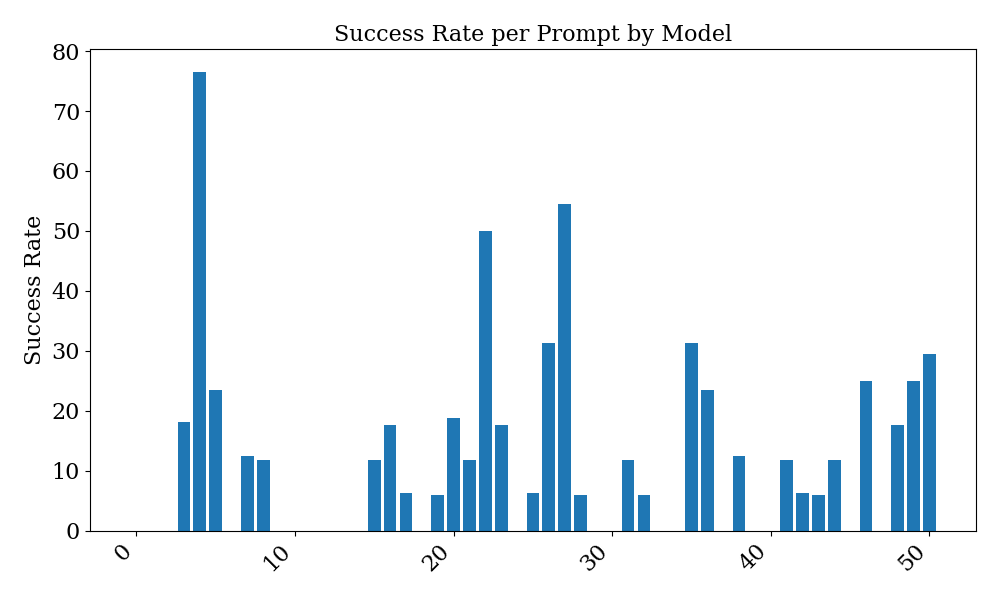
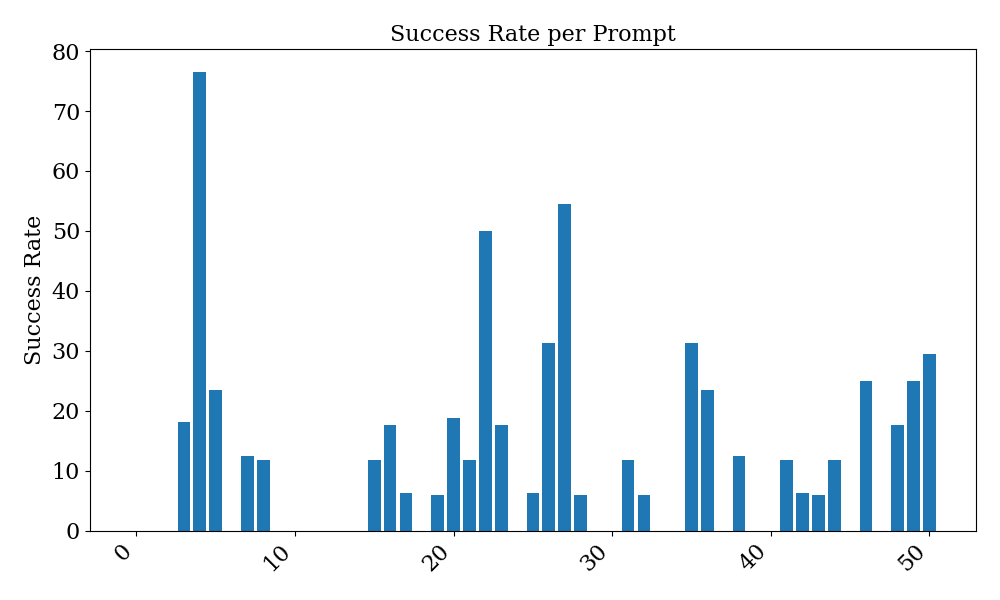
added success rate per prompt

Changed region(s): [[0.341, 0.03, 0.744, 0.09]]

diff --git a/scripts/summarize_eval.py b/scripts/summarize_eval.py
@@ -186,7 +186,7 @@ def parser_success_rate_per_prompt_chart(config, eval_results):
     plt.figure(figsize=(10, 6))
     plt.bar([prompt_idx for prompt_idx in success_rate_per_prompt.keys()], [success_rate_per_prompt[prompt_idx] for prompt_idx in success_rate_per_prompt.keys()], label='Success')
     plt.ylabel('Success Rate')
-    plt.title('Parser Success Rate per Prompt by Model')
+    plt.title('Parser Success Rate per Prompt')
     plt.xticks(rotation=45, ha='right')
     plt.tight_layout()
     plt.savefig(config['eval_directory'] / 'parser_success_rate_per_prompt.png')
@@ -211,7 +211,7 @@ def eval_success_rate_per_prompt_chart(config, eval_results):
     plt.figure(figsize=(10, 6))
     plt.bar([prompt_idx for prompt_idx in success_rate_per_prompt.keys()], [success_rate_per_prompt[prompt_idx] for prompt_idx in success_rate_per_prompt.keys()], label='Success')
     plt.ylabel('Success Rate')
-    plt.title('Success Rate per Prompt by Model')
+    plt.title('Success Rate per Prompt')
     plt.xticks(rotation=45, ha='right')
     plt.tight_layout()
     plt.savefig(config['eval_directory'] / 'eval_success_rate_per_prompt.png')
